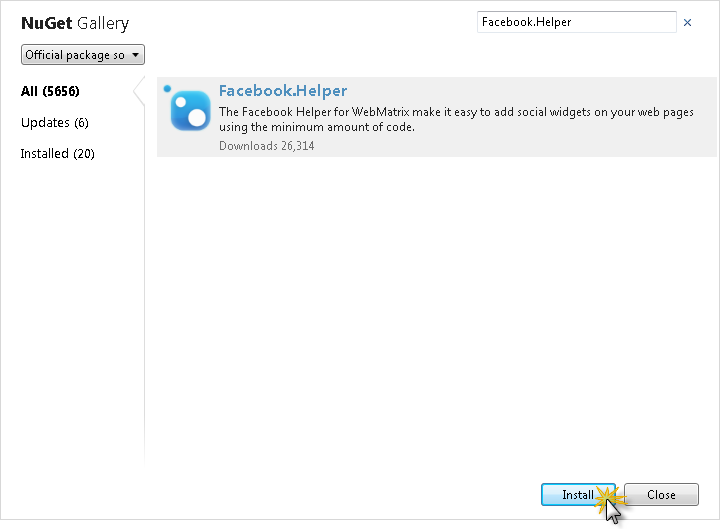
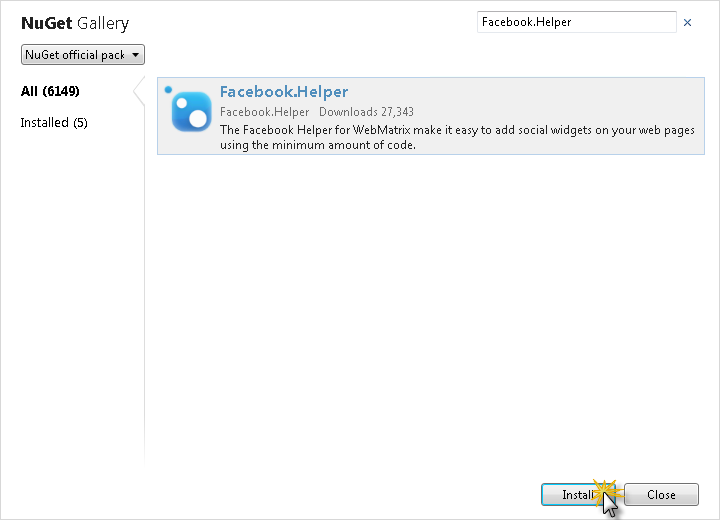
- Minor fixes in document & images

diff --git a/HOL.md b/HOL.md
@@ -52,7 +52,7 @@ In this task, you will create a new Web Site from the Windows Azure Management P
 
 1. Open [Windows Azure Management Portal](https://manage.windowsazure.com) and log in with your Windows Azure Account's credentials.
 
-1. Click **New** | **Web Site** | **Quick Create**. Select a unique **URL** for your web site, for example _WebMatrixSite_.
+1. Click **New** | **Web Site** | **Quick Create**. Select a unique **URL** for your web site, for example _WebMatrixWebSite_.
 
 	![Creating a new Web Site](images/creating-a-new-web-site.png?raw=true "Creating a new Web Site")
 
@@ -100,7 +100,7 @@ In this task, you will download and install WebMatrix  and then create a site us
 
 	_WebMatrix Installed_
 
-1. Once the installation finishes, **WebMatrix** will be automatically launched and start downloading your site. Then, **WebMatrix** will start creating a local copy of your remote site. In this case, your empty site, so it will not take too long to complete the process.
+1. Once the installation finishes, **WebMatrix** will be automatically launched and start downloading your site. Then, **WebMatrix** will start creating a local copy of your remote site. In this case, an empty site, so it will not take too long to complete the process.
 
 	![Copying Files](images/copying-files.png?raw=true "Copying Files")
 
@@ -126,7 +126,7 @@ In this task, you will download and install WebMatrix  and then create a site us
 
 	_Downloading Photo Gallery Template_
 
-1. Once the installation is complete, in **WebMatrix**, notice that there are four available tabs: **Site**, **Files**, **Databases** and **Report**. 
+1. Once the installation is complete, in **WebMatrix**, notice that there are four available tabs: **Site**, **Files**, **Databases** and **Reports**. 
 
 	![Exploring Web Site](images/exploring-web-site.png?raw=true "Exploring Web Site")
 
@@ -145,7 +145,7 @@ In this task, you will download and install WebMatrix  and then create a site us
 
 In this task, you will publish the Photo Gallery template you created in the previous task to your Windows Azure Web Site using WebMatrix.
 
-1. Click **Publish** button to start publishing the **Photo Gallery** to the web site you created in the previous task.
+1. Click **Publish** to start publishing the **Photo Gallery** to the web site you created in the previous task.
 
 	![Publish Web Site](images/publish-web-site.png?raw=true "Publish Web Site")
 
@@ -212,7 +212,7 @@ In this task you will explore the Photo Gallery application you have published i
 
 	_Creating a new Gallery_
 
-1. In the **New Gallery** dialog, set the Gallery's _Name_ to **Photos** and click **Create**.
+1. In the **New Gallery** dialog, set the Gallery's **Name** to _Photos_ and click **Create**.
 
 	![Creating a new photo](images/creating-photos-gallery.png?raw=true "Creating a new photo")
 
@@ -224,7 +224,7 @@ In this task you will explore the Photo Gallery application you have published i
 
 	_Uploading a new photo_
 
-1. In the **Upload Photo** dialog, click the **Browse** button and select an image file.
+1. In the **Upload Photo** dialog, click the **Browse** and select an image file.
 
 	![Click Browse](images/click-browse.png?raw=true "Click Browse")
 
@@ -293,7 +293,7 @@ In this task you will use **NuGet Packages** to install the **Facebook Helper** 
 
     _Opening NuGet Gallery_
 
-1. In the **NuGet Gallery** dialog, select the **Official package source** from the drop down list in the top-right corner.
+1. In the **NuGet Gallery** dialog, select the **NuGet official package source** from the drop down list in the top-left corner.
     
     ![Selecting the Official package source](images/selecting-the-official-package-source.png?raw=true "Selecting the Official package source")
     
@@ -394,7 +394,7 @@ In this task you will use the **Facebook Helper** to insert a Like button in the
 
     _Facebook Like button in place_
 
-1. Click the **Like** button and notice the Facebook log in pop up to allow users to like or comment on the image.
+1. Click **Like** and notice the Facebook log in pop up to allow users to like or comment on the image.
 
     ![Facebook log in](images/facebook-authentication.png?raw=true "Facebook log in")
     
